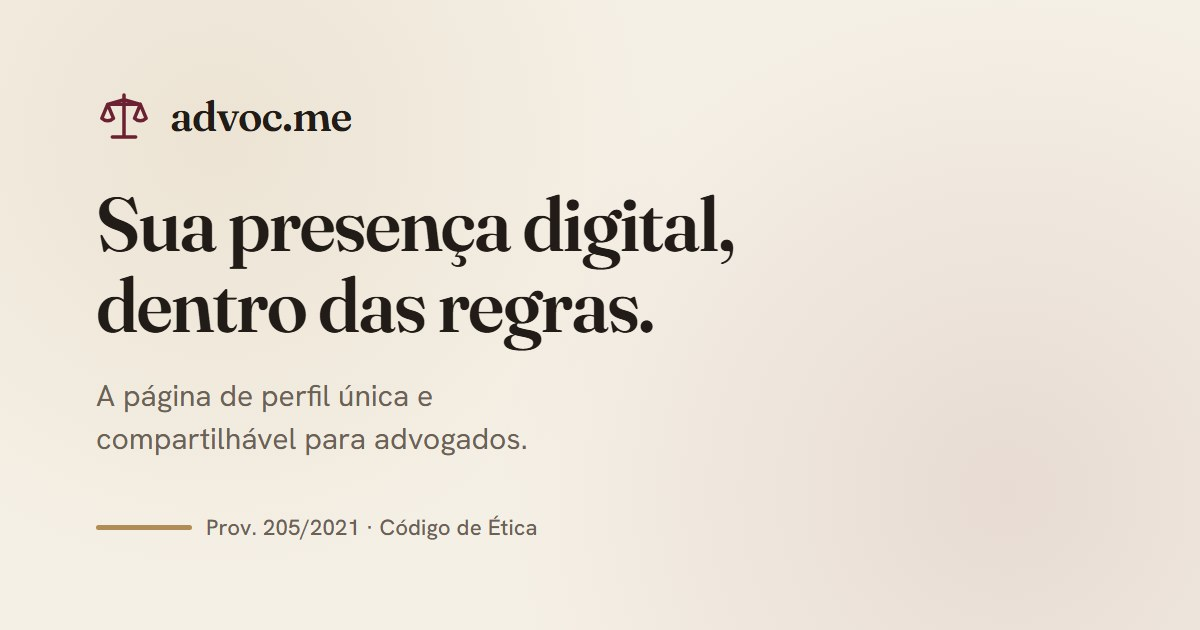
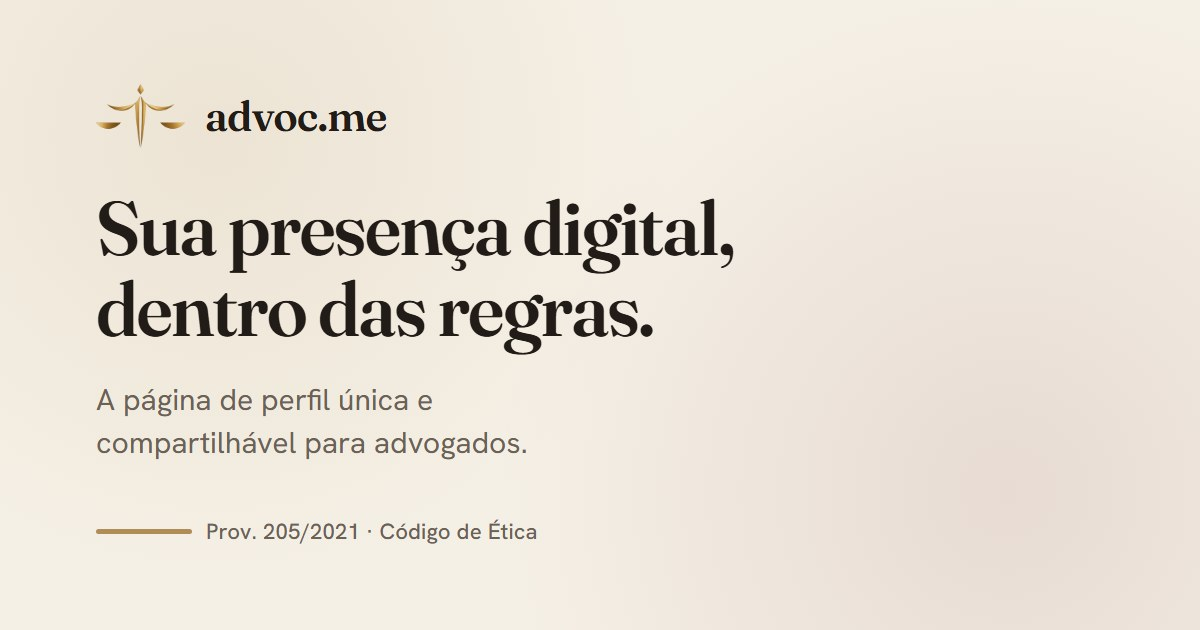
A marca de verdade também na aba, no atalho e na prévia de link
Faltava o resto. Os cabeçalhos já tinham a logo, mas em todo lugar que o
NAVEGADOR olha o produto continuava se apresentando com uma balança desenhada em
SVG, copiada à mão do ícone da interface: a aba, o atalho na tela de início, a
imagem que aparece quando alguém manda o link no WhatsApp.

Agora public/logo.png é a fonte única. gen-brand-assets.mjs deixou de desenhar a
balança e compõe tudo a partir dela — og-padrao.jpg, apple-touch-icon.png e três
medidas de favicon.

Os ícones são dourado sobre PRETO, e não transparentes como a marca do site: são
trabalhos diferentes. Dentro da página a marca fica ao lado do nome sobre o
creme e precisa de fundo transparente; o ícone de aba e o de tela de início são
ladrilhos que o sistema desenha sobre um fundo que não é nosso, e uma marca fina
sem ladrilho some. O preto é o fundo original da arte — o ladrilho não inventa
nada, devolve o que a logo já era.

favicon.svg saiu. A marca tem degradê: um SVG dela seria o mesmo PNG em base64,
com o peso e sem a nitidez. Duas medidas declaradas (32 e 192) porque deixar o
navegador reduzir o de 512 para 32 borra os dois pratos de baixo — conferido
pixel a pixel antes de escolher a folga do ladrilho, que ficou em 3%.

E as nove telas que ainda usavam a balança COMO logo passaram a usar a marca:
"perfil/escritório não encontrado", as duas faixas de demonstração (fundo
escuro), a boas-vindas do onboarding, o cabeçalho do painel de moderação, a
[…]

diff --git a/src/pages/PublicProfile.tsx b/src/pages/PublicProfile.tsx
@@ -8,7 +8,8 @@ import { applyProfileSeo } from '@/lib/seo'
 import { ProfileView } from '@/components/profile/ProfileView'
 import { ShareBar } from '@/components/profile/ShareBar'
 import { OwnerBar } from '@/components/profile/OwnerBar'
-import { FlagIcon, ScaleIcon } from '@/components/ui/icons'
+import { FlagIcon } from '@/components/ui/icons'
+import { Marca } from '@/components/ui/Marca'
 
 export default function PublicProfile() {
   const { slug = '' } = useParams()
@@ -87,7 +88,7 @@ export default function PublicProfile() {
   if (state === 'notfound' || !profile) {
     return (
       <div className="grain flex min-h-dvh flex-col items-center justify-center gap-4 px-6 text-center">
-        <ScaleIcon width={40} height={40} className="text-burgundy/60" />
+        <Marca size={46} className="opacity-80" />
         <h1 className="text-2xl font-semibold">Perfil não encontrado</h1>
         <p className="max-w-xs text-ink-faint">
           O endereço <span className="font-medium">advoc.me/{slug}</span> ainda não existe.
@@ -111,7 +112,7 @@ export default function PublicProfile() {
       <div ref={barsRef}>
         {isExample && (
           <div className="sticky top-0 z-30 flex items-center justify-center gap-1.5 bg-ink px-4 py-2 text-center text-[11.5px] font-medium leading-snug text-paper-soft">
-            <ScaleIcon width={13} height={13} className="shrink-0 text-brass-light" />
+            <Marca size={16} />
             Perfil de demonstração — pessoa e dados fictícios, apenas para exemplo do advoc.me.
           </div>
         )}

diff --git a/index.html b/index.html
@@ -10,11 +10,17 @@
       content="A página de perfil única e compartilhável para advogados. Dentro das normas da OAB."
     />
 
-    <!-- Identidade da aba e da tela de início. O favicon.svg acompanha o tema do
-         sistema em navegadores modernos; o apple-touch-icon é o que o iOS usa ao
-         salvar o site na tela de início, e sem ele o iPhone recorta um retrato da
-         página, que sai ilegível. Ambos gerados/versionados — ver scripts/gen-brand-assets.mjs. -->
-    <link rel="icon" href="/favicon.svg" type="image/svg+xml" />
+    <!-- Identidade da aba e da tela de início — a marca de verdade, não mais uma
+         balança desenhada em SVG parecida com o ícone da interface.
+         São PNG porque a marca é uma imagem com degradê: um SVG dela seria o
+         mesmo PNG embutido em base64, com o peso e sem a nitidez. Duas medidas
+         porque a aba pede 32 e o atalho do Android pede 192 — deixar o navegador
+         reduzir o de 512 para 32 borra os dois pratos de baixo.
+         O apple-touch-icon é o que o iOS usa ao salvar na tela de início; sem
+         ele o iPhone recorta um retrato da página, que sai ilegível.
+         Todos gerados/versionados — ver scripts/gen-brand-assets.mjs. -->
+    <link rel="icon" href="/favicon-32.png" sizes="32x32" type="image/png" />
+    <link rel="icon" href="/favicon-192.png" sizes="192x192" type="image/png" />
     <link rel="apple-touch-icon" href="/apple-touch-icon.png" />
     <link rel="manifest" href="/site.webmanifest" />
 

diff --git a/src/pages/Escritorio.tsx b/src/pages/Escritorio.tsx
@@ -3,7 +3,7 @@ import { Link, useParams } from 'react-router-dom'
 import { api } from '@/lib/api'
 import { isExampleFirm, type Firm } from '@/lib/escritorio'
 import { PaginaEscritorio } from '@/components/escritorio/PaginaEscritorio'
-import { ScaleIcon } from '@/components/ui/icons'
+import { Marca } from '@/components/ui/Marca'
 
 export default function Escritorio() {
   const { slug = '' } = useParams()
@@ -38,7 +38,7 @@ export default function Escritorio() {
   if (state === 'notfound' || !firm) {
     return (
       <div className="grain flex min-h-dvh flex-col items-center justify-center gap-4 px-6 text-center">
-        <ScaleIcon width={40} height={40} className="text-burgundy/60" />
+        <Marca size={46} className="opacity-80" />
         <h1 className="font-display text-2xl font-semibold">Escritório não encontrado</h1>
         <p className="max-w-xs text-ink-faint">
           O endereço <span className="font-medium">advoc.me/escritorio/{slug}</span> ainda não
@@ -55,7 +55,7 @@ export default function Escritorio() {
     <>
       {isExampleFirm(slug) && (
         <div className="sticky top-0 z-30 flex items-center justify-center gap-1.5 bg-ink px-4 py-2 text-center text-[11.5px] font-medium leading-snug text-paper-soft">
-          <ScaleIcon width={13} height={13} className="shrink-0 text-brass-light" />
+          <Marca size={16} />
           Escritório de demonstração — sociedade, advogados e registros fictícios, apenas para
           exemplo do advoc.me.
         </div>

diff --git a/src/pages/Onboarding.tsx b/src/pages/Onboarding.tsx
@@ -21,7 +21,7 @@ import { TrustGauge } from '@/components/ui/TrustGauge'
 import { Field, TextArea, TextInput } from '@/components/editor/fields'
 import { OabNumberInput, WhatsappInput } from '@/components/editor/inputs'
 import { CidadeUfCampos } from '@/components/editor/CidadeInput'
-import { SparkIcon, ScaleIcon, ArrowRight, CheckIcon } from '@/components/ui/icons'
+import { SparkIcon, ArrowRight, CheckIcon } from '@/components/ui/icons'
 import { Marca } from '@/components/ui/Marca'
 
 let uid = 0
@@ -465,9 +465,12 @@ function WelcomeStep({ onStart }: { onStart: () => void }) {
         initial={{ scale: 0.9, opacity: 0 }}
         animate={{ scale: 1, opacity: 1 }}
         transition={{ duration: 0.5, ease: [0.22, 1, 0.36, 1] }}
-        className="flex h-16 w-16 items-center justify-center rounded-2xl bg-burgundy/10 text-burgundy"
+        // O ladrilho acompanha a marca: era um quadrado em vinho porque a
+        // balança desenhada era vinho. Com a logo dourada dentro, o vinho
+        // vira uma terceira cor sem motivo.
+        className="flex h-16 w-16 items-center justify-center rounded-2xl bg-brass/10"
       >
-        <ScaleIcon width={32} height={32} />
+        <Marca size={38} />
       </motion.span>
       <span className="mt-6 inline-flex items-center gap-1.5 rounded-full border border-brass/40 bg-brass/10 px-3 py-1 text-[12px] font-semibold text-brass-deep">
         <CheckIcon width={13} height={13} strokeWidth={2.4} />

diff --git a/src/pages/AdminPanel.tsx b/src/pages/AdminPanel.tsx
@@ -23,7 +23,8 @@ import FichaDoPerfil from '@/components/admin/FichaDoPerfil'
 import { usePaginado } from '@/components/admin/usePaginado'
 import { cnaSearchUrl } from '@/components/ui/CnaLink'
 import type { ModerationStatus } from '@/lib/types'
-import { CheckIcon, ExternalLinkIcon, LockIcon, ScaleIcon, SearchIcon } from '@/components/ui/icons'
+import { CheckIcon, ExternalLinkIcon, LockIcon, SearchIcon } from '@/components/ui/icons'
+import { Marca } from '@/components/ui/Marca'
 
 const STATUS_META: Record<ModerationStatus, { label: string; cls: string }> = {
   active: { label: 'Ativo', cls: 'bg-ink/[0.06] text-ink-faint' },
@@ -249,7 +250,7 @@ function Dashboard({
       <header className="sticky top-0 z-20 border-b border-ink/10 bg-paper/85 backdrop-blur">
         <div className="mx-auto flex max-w-4xl items-center justify-between gap-3 px-4 py-3">
           <span className="flex min-w-0 items-center gap-2 font-display text-lg font-semibold">
-            <ScaleIcon width={20} height={20} className="shrink-0 text-burgundy" />
+            <Marca size={26} />
             <span className="truncate">Painel</span>
           </span>
           {/* Quem está logado, sempre à vista: num painel que decide o que sai do

diff --git a/src/components/profile/OwnerBar.tsx b/src/components/profile/OwnerBar.tsx
@@ -1,5 +1,6 @@
 import { Link } from 'react-router-dom'
-import { ArrowRight, ScaleIcon } from '@/components/ui/icons'
+import { ArrowRight } from '@/components/ui/icons'
+import { Marca } from '@/components/ui/Marca'
 
 // Barra do DONO, sobre o próprio perfil público.
 //
@@ -17,7 +18,7 @@ export function OwnerBar() {
     <div className="sticky top-0 z-30 border-b border-ink/10 bg-paper/95 backdrop-blur">
       <div className="mx-auto flex max-w-3xl flex-wrap items-center gap-x-3 gap-y-2 px-4 py-2.5">
         <span className="flex min-w-0 flex-1 items-center gap-2 text-[12.5px] leading-snug text-ink-soft">
-          <ScaleIcon width={15} height={15} className="shrink-0 text-burgundy" />
+          <Marca size={19} />
           <span className="min-w-0">
             <span className="font-semibold text-ink">Este é o seu perfil</span>
             <span className="hidden sm:inline"> — é assim que ele aparece para quem abre o link.</span>

diff --git a/src/components/admin/FichaDoPerfil.tsx b/src/components/admin/FichaDoPerfil.tsx
@@ -32,7 +32,8 @@ import { REASON_LABEL } from '@/lib/reportReasons'
 import { cnaSearchUrl } from '@/components/ui/CnaLink'
 import { Aviso, Motivo, entrada, fmtData } from './pecas'
 import AcoesDaConta from './AcoesDaConta'
-import { CheckIcon, ChevronDown, ExternalLinkIcon, FlagIcon, ScaleIcon } from '@/components/ui/icons'
+import { CheckIcon, ChevronDown, ExternalLinkIcon, FlagIcon } from '@/components/ui/icons'
+import { Marca } from '@/components/ui/Marca'
 
 const SECOES: { key: string; label: string }[] = [
   { key: 'avatar', label: 'Foto' },
@@ -569,7 +570,7 @@ export function CabecalhoDoPerfil({
 }) {
   return (
     <div className="flex flex-wrap items-center gap-2 text-[12px] text-ink-faint">
-      <ScaleIcon width={13} height={13} className="text-brass-deep" />
+      <Marca size={17} />
       <span className="font-mono">advoc.me/{slug}</span>
       <span>·</span>
       <span>{oab}</span>

diff --git a/src/components/editor/UpgradeTopics.tsx b/src/components/editor/UpgradeTopics.tsx
@@ -6,6 +6,7 @@ import { PLAN_LABEL } from '@/lib/upsell'
 import { CalendarIcon, CheckIcon, GlobeIcon, ScaleIcon, ShieldIcon } from '@/components/ui/icons'
 import { useSlugCheck } from '@/lib/useSlugCheck'
 import { hostLabel } from '@/lib/publicUrl'
+import { Marca } from '@/components/ui/Marca'
 
 // Tópicos concretos de "como melhorar o perfil" travados por plano.
 //
@@ -120,7 +121,7 @@ const TOPICS: Topic[] = [
     proof: () => (
       <span className="flex flex-wrap items-center gap-1.5 text-[12px]">
         <span className="inline-flex items-center gap-1 rounded-md bg-ink/[0.05] px-1.5 py-0.5 text-ink-faint line-through decoration-burgundy/50">
-          <ScaleIcon width={11} height={11} />
+          <Marca size={14} />
           criado com advoc.me
         </span>
         <span className="text-ink-faint">→</span>
